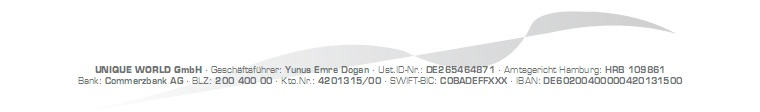
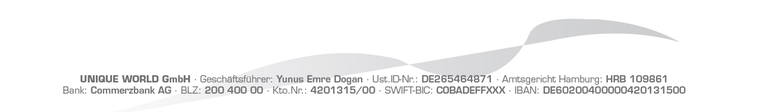
redesign

Changed region(s): [[0.0605, 0.1071, 0.9079, 0.8571]]

diff --git a/main.html b/main.html
@@ -93,13 +93,13 @@
                     <span>Date</span>
                     <div id="datestart-wr">
                         <label for="datestart">Von</label>
-                        <input type="text" name="datestart" id="datestart" size="8"/>
+                        <input type="text" name="datestart" id="datestart"  value="29122011" size="8"/>
                         <br class="clear"/>
                     </div>
                     <br/>
                     <div id="dateend-wr">
                         <label for="dateend">Bis&nbsp;</label>
-                        <input type="text" name="dateend" id="dateend" size="8"/>
+                        <input type="text" name="dateend" id="dateend"  value="05012012" size="8"/>
                         <br class="clear"/>
                     </div>
                     <div id="dayscount-wr" style="display:none;">

diff --git a/js/main.js b/js/main.js
@@ -464,7 +464,7 @@ $(document).ready(function() {
             $.ajax({
                 url: "php/ajax.php",
                 type: "post",
-                data: "mode=pdf&sendmail&vorgangsnummer=" + $('#vorgangsnummer').val() + "&subject=" + subject + $('form').serialize(),
+                data: "mode=pdf&sendmail=1&vorgangsnummer=" + $('#vorgangsnummer').val() + "&subject=" + subject + $('form').serialize(),
                 success: function(data) {
                     $('.mail:visible .good').show();
                     $('.mail:visible input').attr('disabled', 'disabled');

diff --git a/css/pdf.css b/css/pdf.css
@@ -1,13 +1,13 @@
 #header{
     width: 792px;
     height: 285px;
-    background: url('../img/pdf-header.jpg') no-repeat;
+  //  background: url('../img/pdf-header.jpg') no-repeat;
 }
 
 #footer{
     width: 792px;
     height: 117px;
-    background: url('../img/pdf-footer.jpg') no-repeat;
+  //  background: url('../img/pdf-footer.jpg') no-repeat;
 }
 
 #content{

diff --git a/css/main.css b/css/main.css
@@ -1,6 +1,9 @@
 .content{
-	width: 1000px;
+	width: 900px;
 	margin: 0 auto;
+	padding: 10px;
+	padding-bottom: 30px;
+	border: 1px dotted gray;
 }
 
 .input{
@@ -37,7 +40,8 @@ input:focus{
 	width: 415px;
 	height: 120px;
 }
-
+#hotelname {font-size:15px;}
+#page2,#page3 {margin-top: 10px;}
 #page5 .number{
     margin:0 8px 0 -20px;
 }

diff --git a/php/pdf.php b/php/pdf.php
@@ -7,7 +7,20 @@ require_once dirname(__FILE__) . "/MPDF/mpdf.php";
 
 function WriteToPdf($vorgansnummer, $persons, $tours, $flugplan, $priceperson)
 {
-    $pdf = new mPDF('utf-8', 'A4', '8', '', 4, 4, 5, 0, 0, 0);
+    $pdf = new mPDF('utf-8', 'A4', '8', '', 4, 4, 25, 25, 0, 0);
+
+
+$pdf->SetImportUse(); 
+
+
+// Add First page
+$pdf->AddPage();
+
+$pagecount = $pdf->SetSourceFile('UNI_Briefpapier.pdf');
+$tplId = $pdf->ImportPage($pagecount);
+
+$actualsize = $pdf->UseTemplate($tplId);
+
 
     $html = '<div id="page">
     <div id="header"></div>

diff --git a/php/ajax.php b/php/ajax.php
@@ -24,9 +24,9 @@ switch ($mode)
         {
             $data = $data[0];
             if ($data == 1)
-                $result[] = array("value" => "1", "name" => "1 EZ");
+                $result[] = array("value" => "1", "name" => "EZ");
             else if ($data == 2)
-                $result[] = array("value" => "2", "name" => "2 DZ");
+                $result[] = array("value" => "2", "name" => "DZ");
         }
         $result = json_encode($result);
         break;

diff --git a/php/init.php b/php/init.php
@@ -35,4 +35,3 @@ function create_tables()
     )ENGINE MyISAM DEFAULT CHARSET=utf8") or die(mysql_error());
 
 }
-?>
